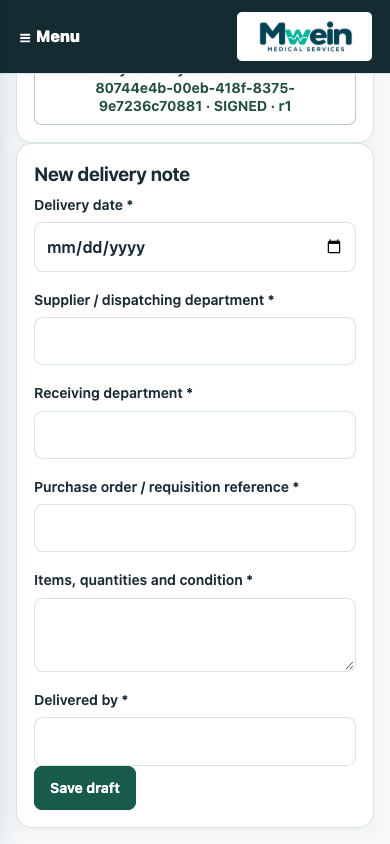
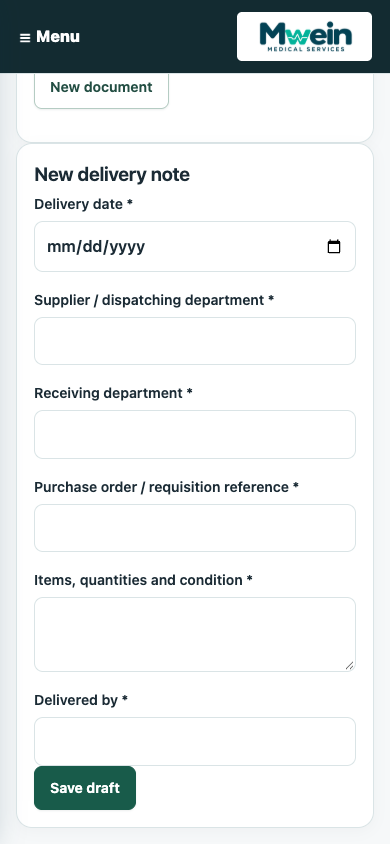
docs: record complete release candidate validation

Changed region(s): [[0.1231, 0.0924, 0.7385, 0.154], [0.0923, 0.2156, 0.3692, 0.3081]]

diff --git a/platform/certification/RELEASE-CANDIDATE-2026-09-27.md b/platform/certification/RELEASE-CANDIDATE-2026-09-27.md
@@ -16,7 +16,8 @@ Production readiness now requires valid ICD-11 credential configuration and a va
 - Type checking passes; 49 migrations and 33 required tables pass the isolated database checks, including `PaymentRequest`.
 - Production dependency audit reports zero known vulnerabilities. This is not a penetration test.
 - Production observed on 27 September (Nairobi): health HTTP 200, source `c0a71c77615875bf5f969bf934d3f1f42f336e09`, migration `20260925100000_signed_clinic_documents`; readiness HTTP 503, `blocked`.
-- Final build and browser outcome are recorded in the accompanying validation summary.
+- Production build and all **52 browser cases passed in one fresh run**, following 100 isolated workflow checks. The source-bound audit inventory reports 69 routes, zero detected gaps, zero unclassified routes and zero aliases requiring review. This inventory is not independent assurance. See [validation summary](main-action-fixes-20260927/release-validation.json).
+- The new patient-use verifier was run read-only against the deployed release and correctly rejected its blocked readiness status.
 
 ## Release procedure
 
